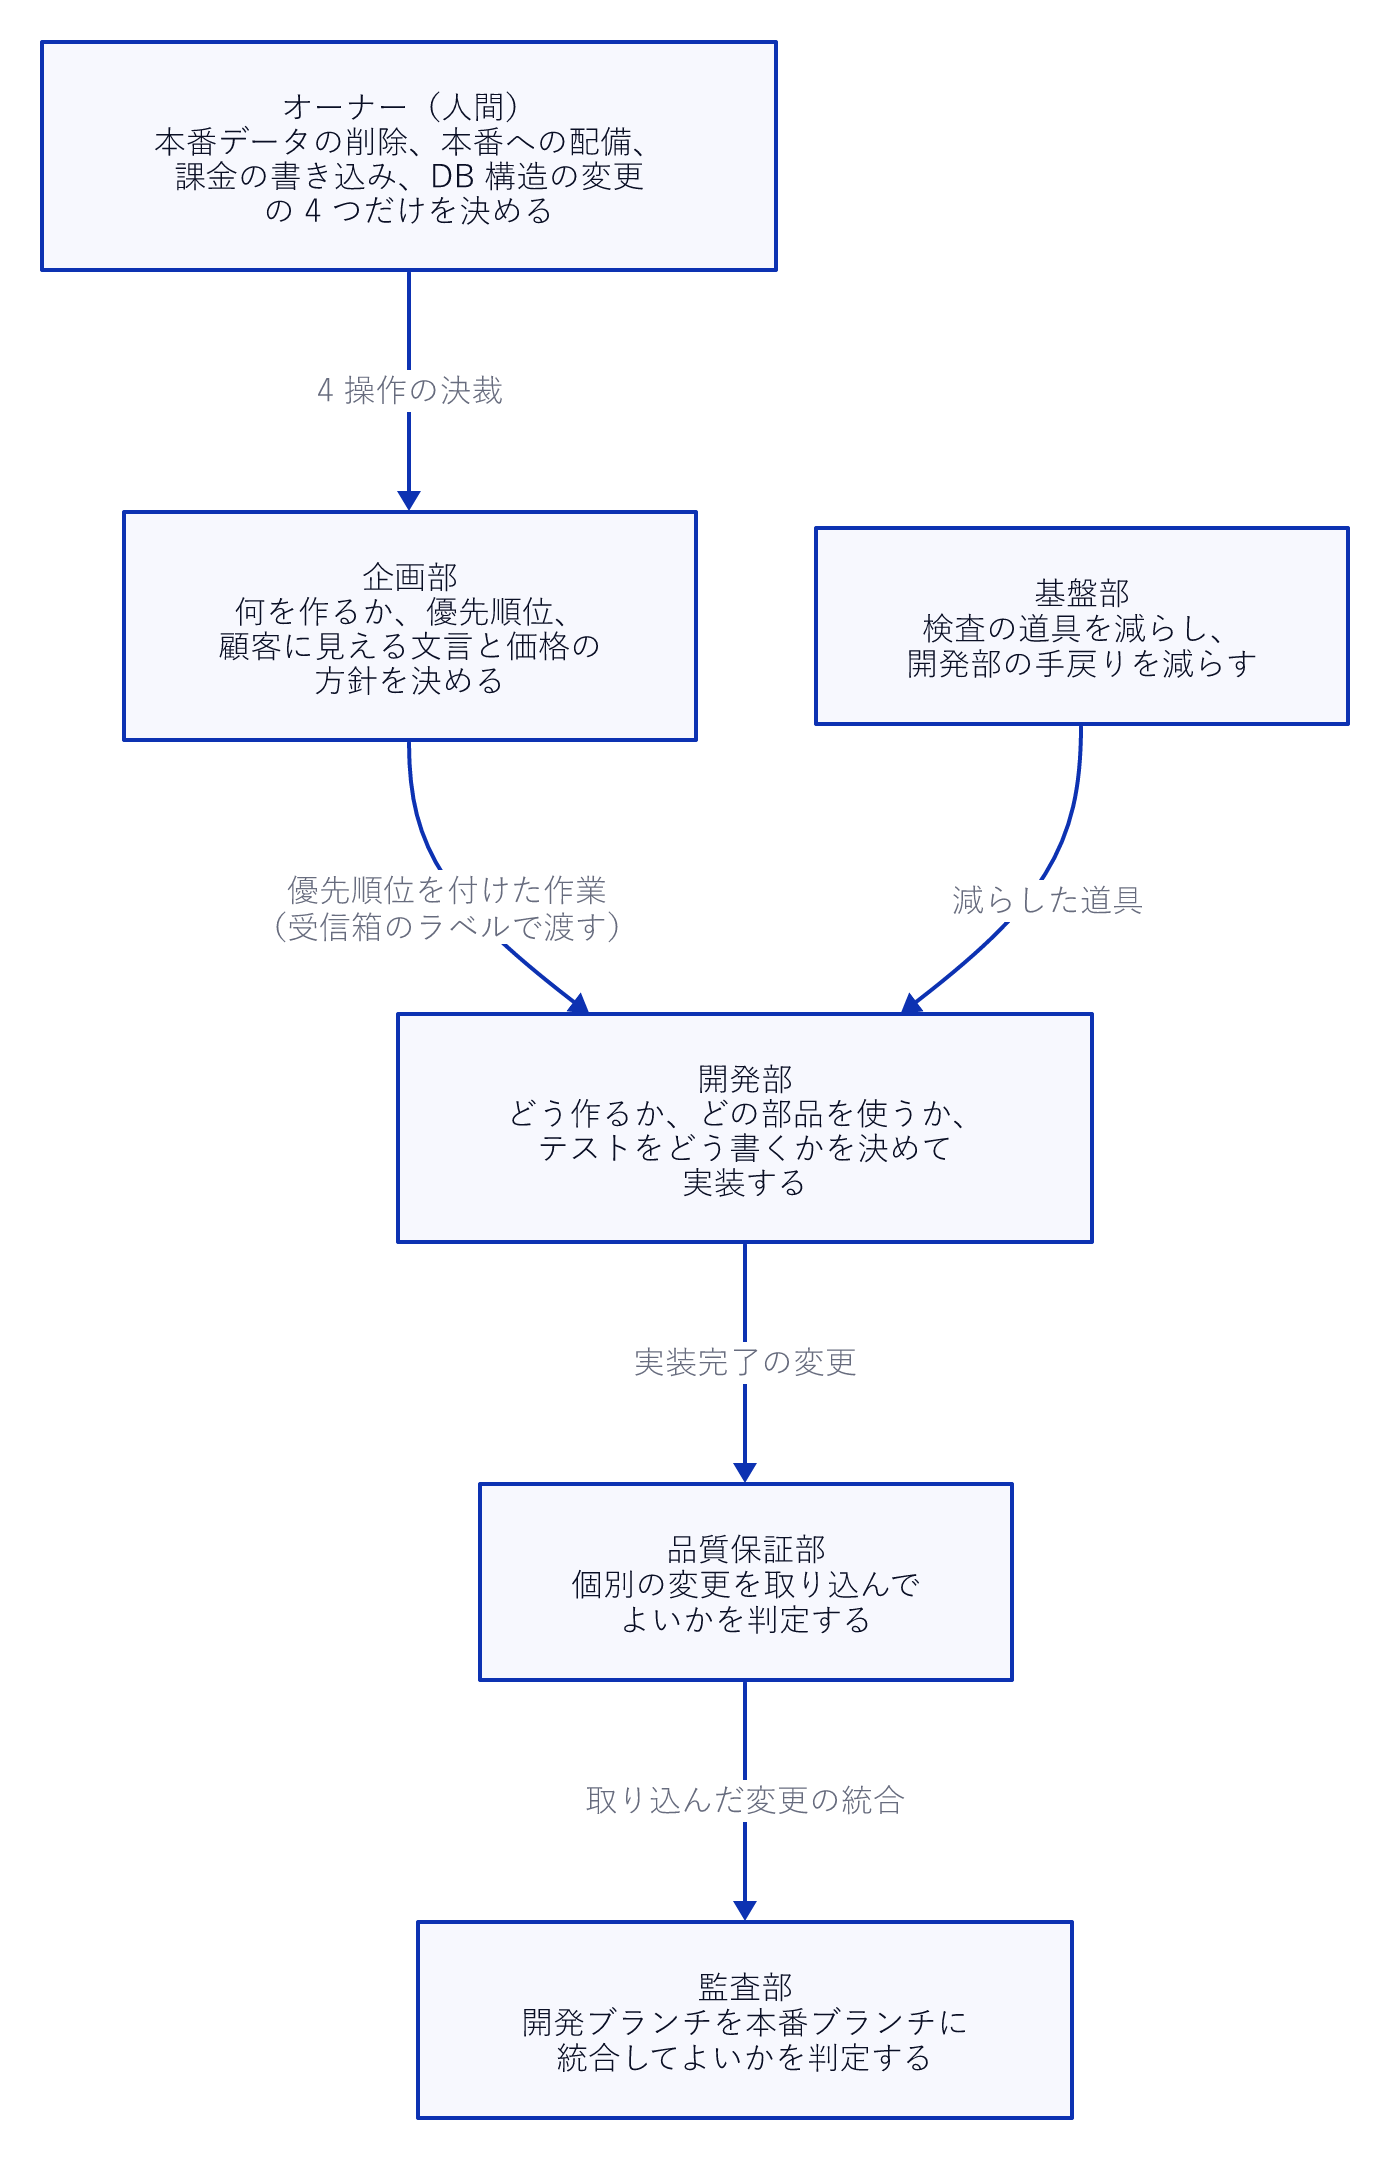
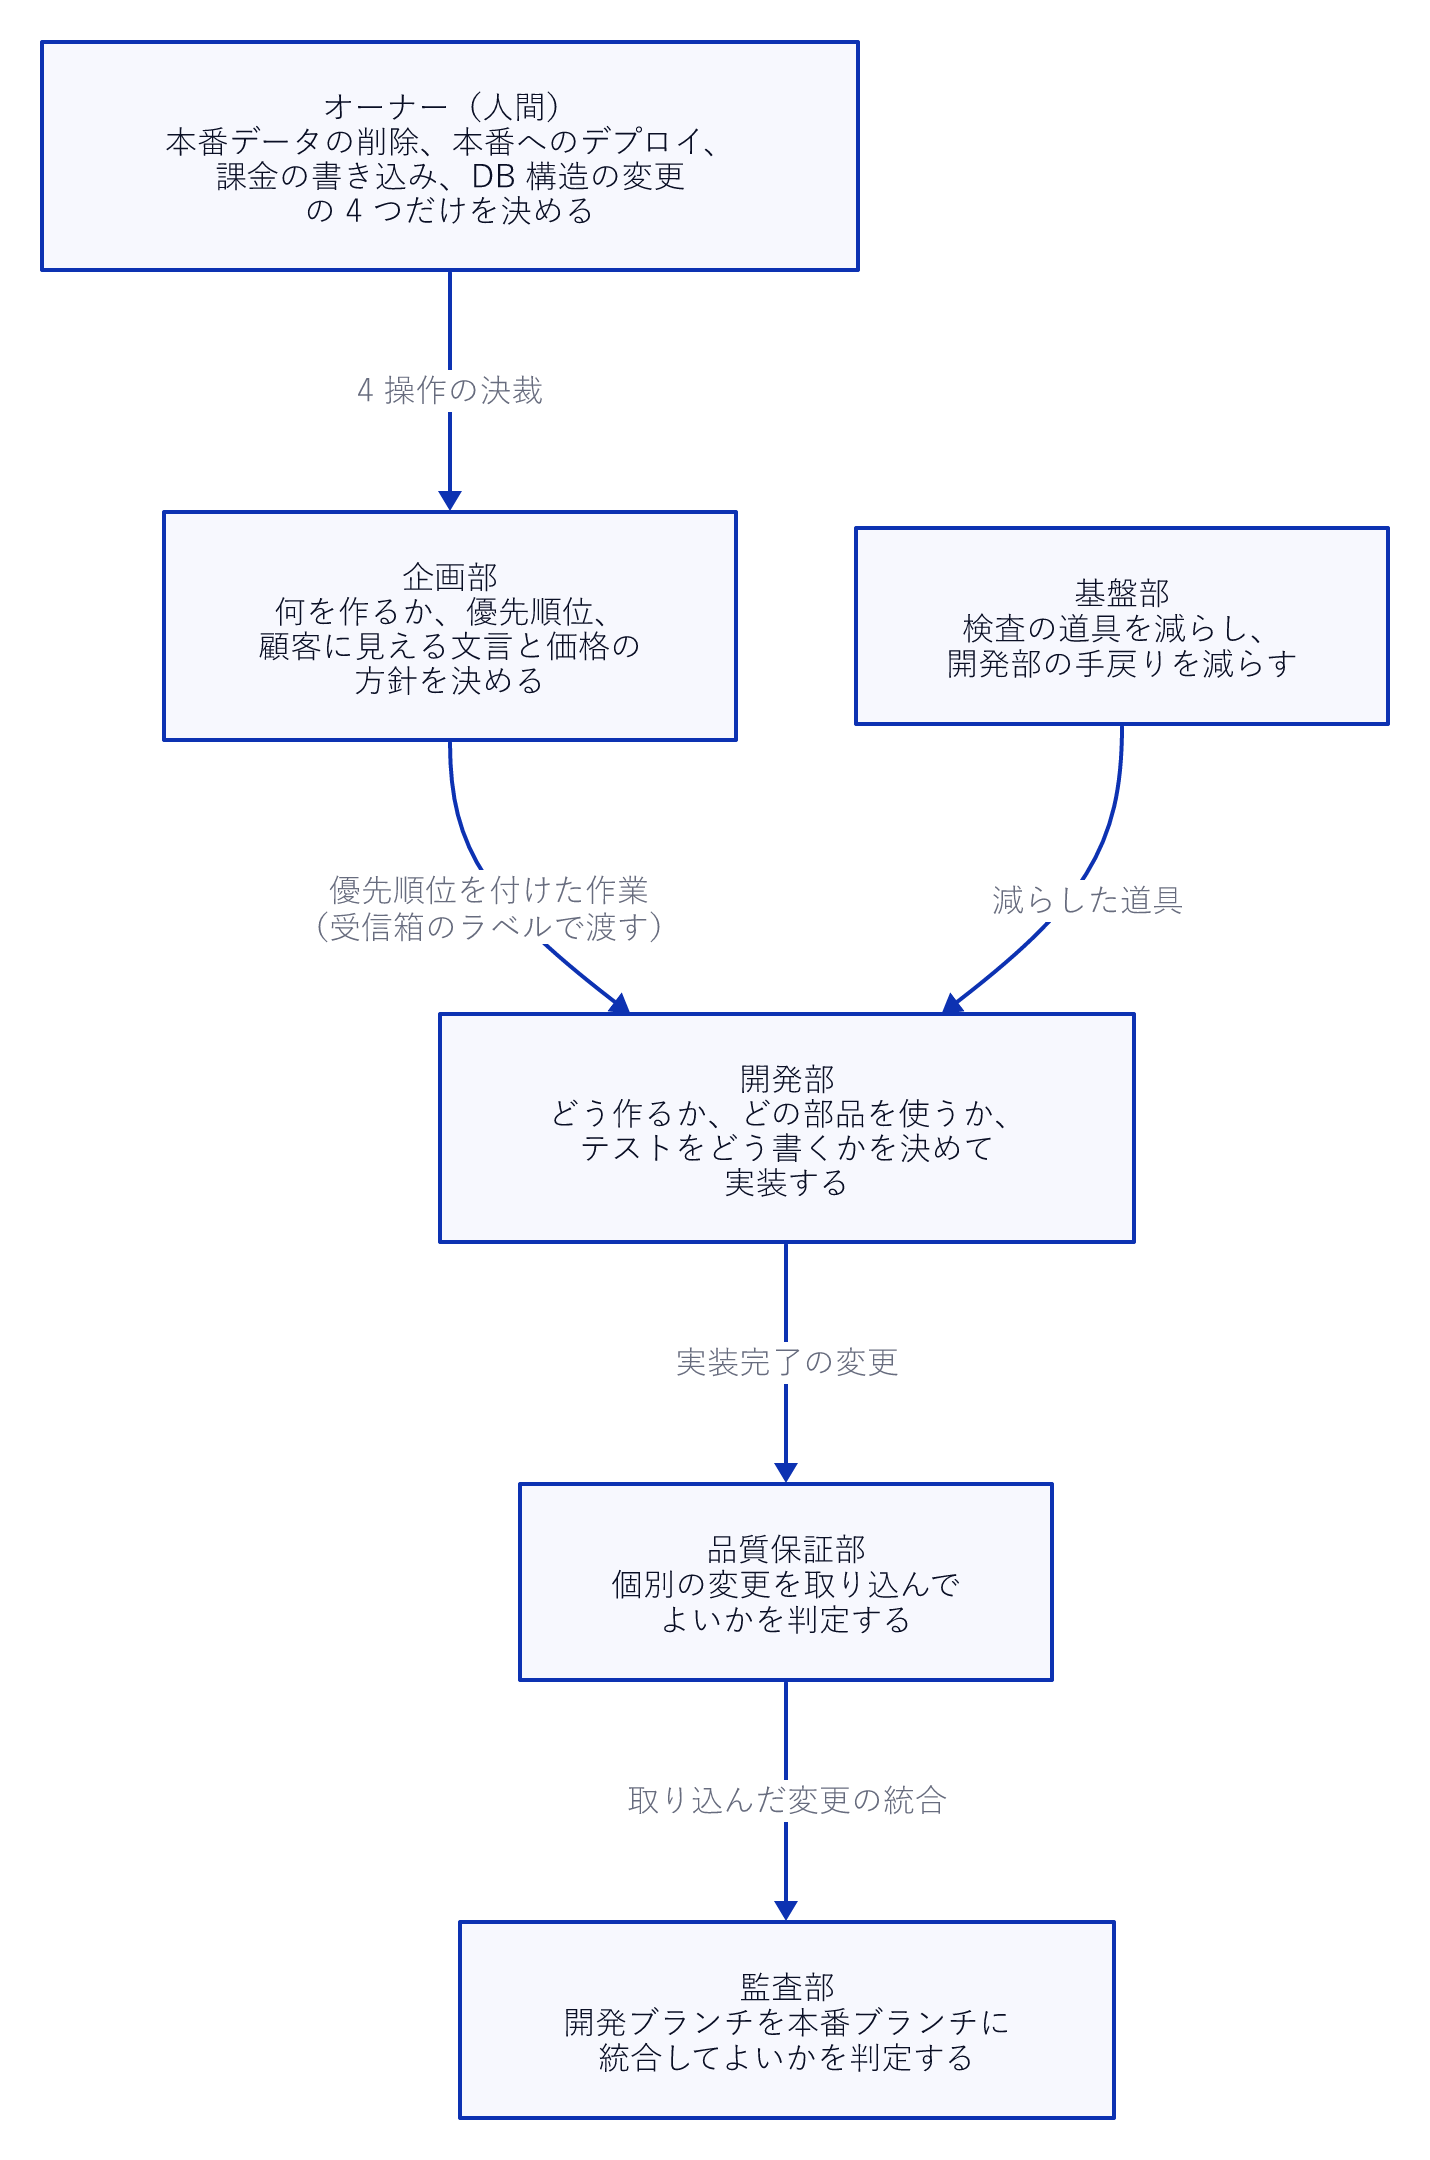
docs(book): 改訂 4 — 「配備」を「デプロイ」に統一

diff --git a/books/ganbari-quest-design/summary.md b/books/ganbari-quest-design/summary.md
@@ -77,7 +77,7 @@ free: true
 
 第Ⅰ部「プロダクト」は、製品の方針がなぜ設計を縛るのかを扱います。滞在時間を価値の毀損と数える原則（[第Ⅰ部-2](anti-engagement)）、年齢帯で機能を変えない判断（[第Ⅰ部-3](age-tiers)）、増殖した仕掛けを 3 層に削った経緯（[第Ⅰ部-4](point-economy)）、作らないことを決める基準とそれが悪用されたときの修正（[第Ⅰ部-5](pre-pmf-scope)）、子供のデータを扱う法務を画面と実装に落とす方法（[第Ⅰ部-6](legal-by-design)）です。
 
-第Ⅱ部「アプリケーションアーキテクチャ」は、1 章 1 部品です。技術選定（[第Ⅱ部-1](stack-selection)）から始まり、層の構造、デザインの仕組み、データモデリング、家庭ごとのデータ分離、認証、テンプレート市場、生成AIによる提案、課金、ログ、バックアップ、通知、運営者の画面、画像アセットを扱います。第Ⅲ部「インフラ」は、実測の月額（[第Ⅲ部-1](serverless-cost)）から始まり、AWS CDK の構成、Lambda での動かし方、配備の前後の検査、監視、デモ、セルフホスト、紹介ページの配信を扱います。
+第Ⅱ部「アプリケーションアーキテクチャ」は、1 章 1 部品です。技術選定（[第Ⅱ部-1](stack-selection)）から始まり、層の構造、デザインの仕組み、データモデリング、家庭ごとのデータ分離、認証、テンプレート市場、生成AIによる提案、課金、ログ、バックアップ、通知、運営者の画面、画像アセットを扱います。第Ⅲ部「インフラ」は、実測の月額（[第Ⅲ部-1](serverless-cost)）から始まり、AWS CDK の構成、Lambda での動かし方、デプロイの前後の検査、監視、デモ、セルフホスト、紹介ページの配信を扱います。
 
 第Ⅳ部「生成AI駆動開発プロセス」が、本書の中心です。前半は、一人の人間が 5 つの部署のセッションを立てる体制と決定権（[第Ⅳ部-1](one-human-many-sessions)）、部署の間の受け渡し（[第Ⅳ部-2](label-mailbox)）、作った者と認める者の分離（[第Ⅳ部-3](maker-not-approver)）、「完了しました」を信じない検証（[第Ⅳ部-4](definition-of-done)）です。後半は、同じ型の不具合を型ごと止める原則（[第Ⅳ部-5](sixty-to-hundred)）、並列化の使いどころ（[第Ⅳ部-6](parallel-agents)）、統合を第三者として判定する監査部（[第Ⅳ部-7](audit-team)）、検査の道具が製品より大きくなった話（[第Ⅳ部-8](platform-session)）です。第Ⅴ部「品質ゲートの機械化」は、その検査の実体です。
 
@@ -117,12 +117,12 @@ free: true
 | 品質保証部 | 個別の変更を取り込んでよいかを判定する部署 | QM |
 | 監査部 | 開発ブランチを本番ブランチに統合してよいかを判定し、リリースを切り出す部署 | 監査 |
 | 基盤部 | 検査の道具を減らし、自動生成に置き換える部署 | Platform |
-| オーナー | 著者本人。本番データの削除、本番への配備、課金の書き込み、データベース構造の変更の 4 つは常にオーナーが決める | オーナー |
+| オーナー | 著者本人。本番データの削除、本番へのデプロイ、課金の書き込み、データベース構造の変更の 4 つは常にオーナーが決める | オーナー |
 | セッション | Claude Code を 1 回起動して閉じるまでの会話。部署ごとに別の複製リポジトリで別のセッションを動かす | session |
 | 受信箱 | 「次に誰に用があるか」を GitHub のラベルで表し、各部署が自分宛てを見に行く仕組み | label mailbox |
 | 宛先なし | どの受信箱にも入っていない未完了の項目 | orphan |
-| 関門 | 通らなければ次へ進めない検査。自動検査、人の承認、配備前の検証など | gate |
-| 止める検査 / 警告 | 検査の強さ。止める検査はマージや配備を止め、警告は報告するだけ | hard-fail / warning |
+| 関門 | 通らなければ次へ進めない検査。自動検査、人の承認、デプロイ前の検証など | gate |
+| 止める検査 / 警告 | 検査の強さ。止める検査はマージやデプロイを止め、警告は報告するだけ | hard-fail / warning |
 | 歯止め | 「いまの件数を上限にして増やせない、減らしたら上限も下げる」形の検査 | ratchet |
 | 型止め | 同じ型の不具合の 2 件目に触れたら、個別に直さず型ごと機械で止めること | class-lock |
 | 契約テスト | 構造や文書と実装の一致を検査するテスト。機能の正しさではなく契約が守られているかを見る | fitness function |
@@ -135,6 +135,6 @@ free: true
 | 画面操作テスト | ブラウザを実際に操作する自動テスト | E2E |
 | 紹介ページ | 製品の紹介と価格を載せた静的なウェブサイト | LP |
 | 顧客が付く前の段階 | 作らないことを決める判断基準の名前 | Pre-PMF |
-| 開発ブランチ / 本番ブランチ | 変更を集めるブランチと、本番に配備されるブランチ | develop / main |
+| 開発ブランチ / 本番ブランチ | 変更を集めるブランチと、本番にデプロイされるブランチ | develop / main |
 
 固有名詞は英字のままです。代表的なものを挙げます。Claude Code は Anthropic の、端末で動く生成AIのエージェントで、本書の実装はほぼこれが書きました。Aurora DSQL は AWS の PostgreSQL 互換の分散データベース、AWS CDK は AWS の構成を TypeScript で定義する道具、Lambda は AWS のサーバレス実行環境、NUC は家庭内に置く小型 PC です。
